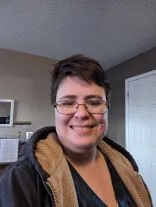
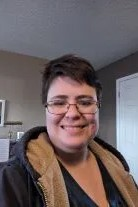
main page update

diff --git a/index.html b/index.html
@@ -22,7 +22,7 @@
 </head>
 <body>
     <header>
-        <img src="images/profile.webp" alt="Profile Picture of Sariah Wandler">
+        <img src="images/profile.webp" alt="Profile Picture of Sariah Wandler" width="200px" height="300px">
         <h1>Sariah Wandler</h1>
     </header>
     <a id="menu" href="#"></a>
@@ -80,7 +80,8 @@
                     </li>
                     <li>
                         07:
-                        <a></a>
+                        <a href="lesson07/lazyload.html">Lazy Loading Demonstration</a>
+                        <a href="lesson07/bom.html">Book of Mormon - Favorites - Enhanced</a>
                     </li>
                     <li>
                         08:
@@ -102,10 +103,14 @@
                     <input placeholder="weather">
                 </div>
                 <div>
-                    <input placeholder="times page was visited">
+                    <h4>Page Visits</h4>
+                    <h4 class="count"></h4>
                 </div>
             </section>
-            <iframe src="https://www.google.com/maps/embed?pb=!1m10!1m8!1m3!1d345110.97237785766!2d-111.310486!3d47.486417!3m2!1i1024!2i768!4f13.1!5e0!3m2!1sen!2sus!4v1705728308460!5m2!1sen!2sus" style="border:0;" allowfullscreen="" loading="lazy" referrerpolicy="no-referrer-when-downgrade"></iframe>
+            <picture>
+                <source srcset="https://www.google.com/maps/embed?pb=!1m14!1m12!1m3!1d21559.028636754738!2d-111.30732086197231!3d47.511755812388564!2m3!1f0!2f0!3f0!3m2!1i1024!2i768!4f13.1!5e0!3m2!1sen!2sus!4v1708815978035!5m2!1sen!2sus" media="(max-width: 750px)">
+                <iframe src="https://www.google.com/maps/embed?pb=!1m14!1m12!1m3!1d21559.028636754738!2d-111.30732086197231!3d47.511755812388564!2m3!1f0!2f0!3f0!3m2!1i1024!2i768!4f13.1!5e0!3m2!1sen!2sus!4v1708815978035!5m2!1sen!2sus" width="800" height="600" style="border:0;" allowfullscreen="" loading="lazy" referrerpolicy="no-referrer-when-downgrade"></iframe>
+            </picture>
         </div> 
     </main>
     <footer>
@@ -114,5 +119,6 @@
     </footer>
     <script src="scripts/getdates.js"></script>
     <script src="scripts/menu.js"></script>
+    <script src="scripts/countvisits.js"></script>
 </body>
 </html>

diff --git a/lesson07/lazyload.html b/lesson07/lazyload.html
@@ -1,0 +1,42 @@
+<!DOCTYPE html>
+<html lang="en">
+<head>
+    <meta charset="UTF-8">
+    <meta name="viewport" content="width=device-width, initial-scale=1.0">
+    <title>LazyLoad</title>
+    <meta name="author" content="Sariah Wandler">
+    <meta name="description" content="Demonstration of lazy loading for images">
+    <link rel="stylesheet" href="../styles/normalize.css">
+    <link rel="stylesheet" href="styles/lazyload.css">
+</head>
+<body>
+    <header>
+        <h1>Lazy Load Demonstration</h1>
+    </header>
+    <main>
+        <picture>
+            <img src="https://picsum.photos/400/600?random=1" alt="placeholder" loading="lazy" width="400px" height="600px">
+        </picture>
+        <picture>
+            <img src="https://picsum.photos/400/600?random=2" alt="placeholder" loading="lazy" width="400px" height="600px">
+        </picture>
+        <picture>
+            <img src="https://picsum.photos/400/600?random=3" alt="placeholder" loading="lazy" width="400px" height="600px">
+        </picture>
+        <picture>
+            <img src="https://picsum.photos/400/600?random=4" alt="placeholder" loading="lazy" width="400px" height="600px">
+        </picture>
+        <picture>
+            <img src="https://picsum.photos/400/600?random=5" alt="placeholder" loading="lazy" width="400px" height="600px">
+        </picture>
+        <picture>
+            <img src="https://picsum.photos/400/600?random=6" alt="placeholder" loading="lazy" width="400px" height="600px">
+        </picture>
+    </main>
+    <footer>
+        <p id="copyright">@ year <br> Sariah Wandler <br> Montana, United States</p>
+        <p id="lastModified"></p>
+    </footer>
+    <script src="scripts/getdates.js"></script>
+</body>
+</html>

diff --git a/lesson07/scripts/bom.js b/lesson07/scripts/bom.js
@@ -1,0 +1,47 @@
+const input = document.querySelector('#favchap');
+const button = document.querySelector('button');
+const list = document.querySelector('#list');
+let chaptersArray = getChaptersList() || [];
+
+chaptersArray.forEach(chapter => {
+    displayList(chapter);
+  });
+
+button.addEventListener('click', () => {
+    if (input.value != ""){
+        displayList(input.value);
+        chaptersArray.push(input.value);
+        setChaptersList();
+        input.value = "";
+        input.focus()
+    }
+});
+
+function displayList(item) {
+    let li = document.createElement('li');
+    let deletebutton = document.createElement('button');
+    li.textContent = item;
+    deletebutton.textContent = '❌';
+    deletebutton.classList.add('delete'); 
+    li.append(deletebutton);
+    list.append(li);
+    deletebutton.addEventListener('click', function () {
+    list.removeChild(li);
+    deleteChapter(li.textContent); 
+    input.focus();
+  });
+}
+
+function setChaptersList() {
+    localStorage.setItem('myFavBOMList', JSON.stringify(chaptersArray));
+}
+
+function getChaptersList() {
+    return JSON.parse(localStorage.getItem('myFavBOMList'));
+}
+
+function deleteChapter(chapter) {
+    chapter = chapter.slice(0, chapter.length - 1);
+    chaptersArray = chaptersArray.filter(item => item !== chapter);
+    setChapterList();
+  }

diff --git a/lesson07/styles/base.css b/lesson07/styles/base.css
@@ -1,0 +1,69 @@
+* {
+	margin: 0;
+	padding: 0;
+}
+
+body {
+	height: 100vh;
+	display: flex;
+	flex-direction: column;
+	align-items: center;
+	justify-content: center;
+	font-family: Acme, Arial, sans-serif;
+}
+
+h1 {
+	font-size: 1.5rem;
+}
+
+main {
+	margin: 1rem auto;
+	border: 1px solid rgba(0, 0, 0, 0.1);
+	padding: 1rem;
+	background-color: #ddd;
+	display: flex;
+	flex-direction: column;
+}
+
+input,
+button {
+	padding: 0.5rem;
+}
+
+button {
+	margin: 0.5rem;
+}
+
+.delete {
+	width: fit-content;
+}
+
+.input {
+	display: flex;
+	gap: 1rem;
+}
+
+.list {
+	padding: 0.5rem;
+}
+
+ul {
+	margin: 1rem;
+	list-style: none;
+}
+
+li {
+	display: flex;
+	align-items: center;
+	justify-content: space-between;
+}
+
+@media only screen and (min-width: 32.5em) {
+	h1 {
+		font-size: 2rem;
+	}
+
+	main {
+		width: 320px;
+	}
+}

diff --git a/lesson07/bom.html b/lesson07/bom.html
@@ -1,0 +1,21 @@
+<!DOCTYPE html>
+<html lang="en">
+<head>
+    <meta charset="UTF-8">
+    <meta name="viewport" content="width=device-width, initial-scale=1.0">
+    <title>Book of Mormon - Favorite Chapters</title>
+    <meta name="author" content="Sariah Wandler">
+    <meta name="description" content="Application to display user's favorite Book of Mormon chapters">
+    <link rel="stylesheet" href="styles/base.css">
+</head>
+<body>
+        <h1>📖 Book of Mormon - Top 10</h1>
+    <main>
+        <label for="favchap">Enter Book and Chapter: </label>
+        <input type="text" id="favchap" placeholder="Alma 5">
+        <button type="submit">Add Chapter</button>
+        <ul id="list"></ul>
+    </main>
+    <script src="scripts/bom.js"></script>
+</body>
+</html>

diff --git a/styles/base.css b/styles/base.css
@@ -12,8 +12,13 @@ header{
 
 header img{
     height: 75%;
+    width: auto;
     border: .75rem solid #f7e1d7;
     margin-right: .5rem;
+}
+
+.hero{
+    position: relative;
 }
 
 .hero img{
@@ -23,8 +28,8 @@ header img{
 
 .overlay{
     position: absolute;
-    top: 300px;
-    left: 150px;
+    top: 40px;
+    left: 10px;
     background-color: #f7e1d7;
     padding: 5px;
     opacity: 75%;
@@ -54,8 +59,11 @@ h3, div {
 
 nav {
     background-color: black;
+    position: absolute;
+    left: 10px;
+    right: 10px;
+    z-index: 1;
 }
-
 
 .navigation {
 	list-style: none;

diff --git a/lesson07/styles/lazyload.css b/lesson07/styles/lazyload.css
@@ -1,0 +1,28 @@
+h1{
+    text-align: center;
+}
+main {
+    display: flex;
+    flex-direction: column;
+    justify-content: space-between;
+    align-items: center;
+    margin: auto;
+    max-width: 80%;
+}
+
+img {
+    width: 100%;
+    height: auto;
+    background: black;
+    animation: fade 15s;
+}
+
+@keyframes fade {
+    0%{
+        opacity:0 ;
+    }
+    
+    100%{
+        opacity: 1;
+    }
+}

diff --git a/lesson07/scripts/getdates.js b/lesson07/scripts/getdates.js
@@ -1,0 +1,8 @@
+let dateModified = new Date(document.lastModified);
+let year = dateModified.getFullYear().toString();
+
+let text = document.querySelector("#copyright").innerHTML;
+copyright = text.replace("year", year);
+document.querySelector("#copyright").innerHTML = copyright;
+
+document.querySelector("#lastModified").innerHTML = `Last Modifification: ${dateModified.toString()}`

diff --git a/styles/larger.css b/styles/larger.css
@@ -3,6 +3,10 @@
         margin-right: 2rem;
     }
 
+    nav{
+        position: static;
+    }
+
     .navigation{
         display: flex;
         flex-direction: row;
@@ -30,7 +34,9 @@
         grid-column: 1/3;
     }
 
-    iframe{
+    picture{
         grid-column: 1/3;
+        width: 100%;
+        height: auto;
     }
 }

diff --git a/lesson06/responsive-images.html b/lesson06/responsive-images.html
@@ -6,6 +6,7 @@
     <title>Responsive Images</title>
     <meta type="description" content="Shows the ability to change images based on the device of the user">
     <meta type="author" content="Sariah Wandler">
+    <link rel="stylesheet" href="styles/responsive-images.css">
 </head>
 <body>
     <main>

diff --git a/scripts/countvisits.js b/scripts/countvisits.js
@@ -1,0 +1,9 @@
+const countDisplay = document.querySelector(".count");
+
+let numVisits = Number(window.localStorage.getItem("numVisits-ls")) || 0;
+
+numVisits ++;
+
+localStorage.setItem("numVisits-ls", numVisits);
+
+countDisplay.textContent = numVisits
